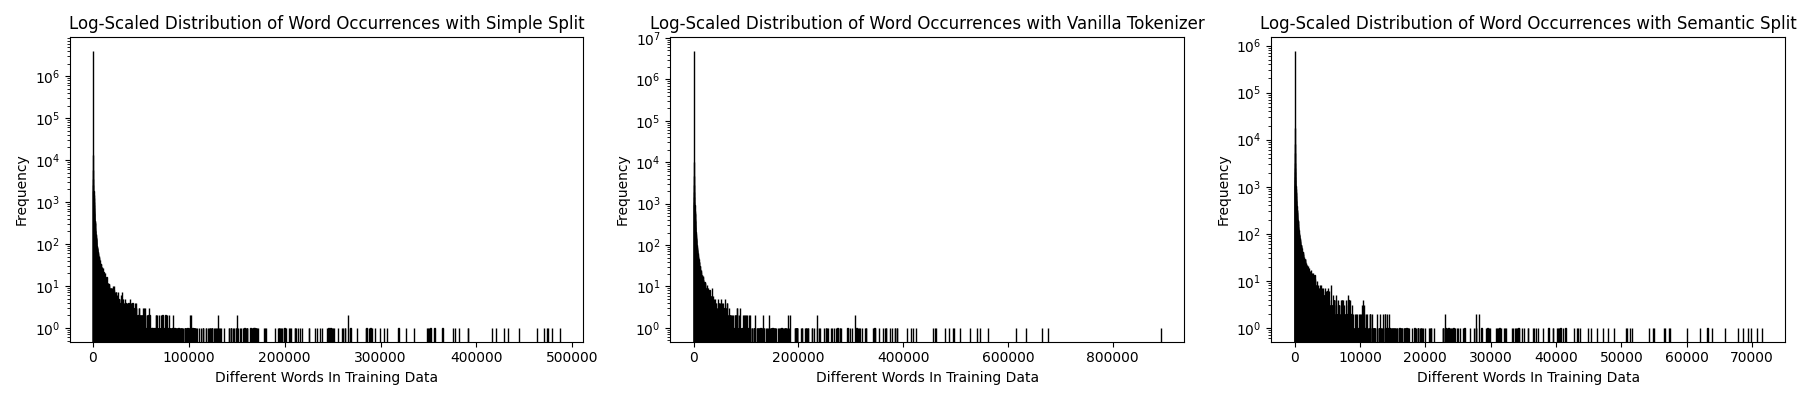
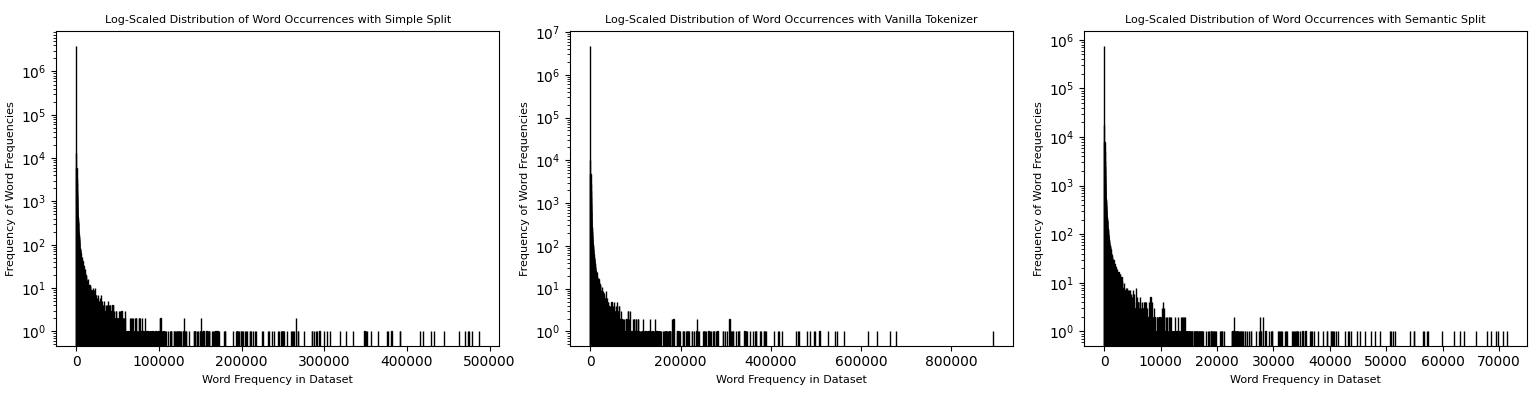
Added Plots

Changed region(s): [[0.0, 0.03, 0.9974, 0.96], [0.6545, 0.15, 0.9974, 0.96], [0.6545, 0.66, 0.6857, 0.69]]

diff --git a/data_breakdown/read_data.py b/data_breakdown/read_data.py
@@ -3,6 +3,8 @@ import pandas as pd
 import openpyxl
 import matplotlib.pyplot as plt
 import json
+import numpy as np
+from scipy.stats import linregress
 
 import general_functions as gf
 
@@ -30,9 +32,9 @@ def plot_histograms_from_multiple_hashmaps(hashmaps, titles):
     for idx, hashmap in enumerate(hashmaps):
         data = [value for value in hashmap.values()]
         axs[idx].hist(data, bins=5000, edgecolor='black', log=True)
-        axs[idx].set_title(titles[idx])
-        axs[idx].set_xlabel("Different Words In Training Data")
-        axs[idx].set_ylabel("Frequency")
+        axs[idx].set_title(titles[idx], fontsize = 8)
+        axs[idx].set_xlabel("Word Frequency in Dataset", fontsize = 8)
+        axs[idx].set_ylabel("Frequency of Word Frequencies", fontsize = 8)
 
     plt.tight_layout()
     plt.show()
@@ -69,6 +71,36 @@ def load_hashmaps_from_excels(folder_path):
     
     return hashmap_
 
+def plot_zipf(hashmap, titles):
+
+    num_plots = len(hashmap)
+    fig, axs = plt.subplots(1, num_plots, figsize=(6 * num_plots, 4))
+
+    # If only one subplot, make axs iterable
+    if num_plots == 1:
+        axs = [axs]
+
+    y = {1:[], 2:[], 3:[]}
+    x = {1:[], 2:[], 3:[]}
+    for i in hashmap:
+        # Create a list of keys sorted by their values in descending order
+        sorted_keys = sorted(hashmap[i], key=lambda k: hashmap[i][k], reverse=True)
+        for z in sorted_keys:
+            y[i].append(hashmap[i][z])
+        x[i] = list(range(1, len(y[i]) + 1))
+
+    for idx, hashmap in enumerate(hashmaps):
+
+        axs[idx].plot(x[idx + 1], y[idx + 1], label='Log-Scaled Line')
+        axs[idx].set_xscale('log')
+        axs[idx].set_yscale('log')
+        axs[idx].set_xlabel('log rank')
+        axs[idx].set_ylabel('log frequency')
+        axs[idx].set_title(titles[idx + 1])
+
+    plt.tight_layout()
+    plt.show()
+
 if __name__ == "__main__":
 
     title_ = {
@@ -101,6 +133,21 @@ if __name__ == "__main__":
         with open(hashmaps[method], "w", encoding="utf-8") as file:
             json.dump(hashmap, file)
 
+    #-------------------------Plot Zipf's Ranking Curve---------------------------------#
+
+    plot_zipf_ = False
+    if plot_zipf_:
+        hashmap_load = {}
+        titles = {}
+        for i in hashmaps:
+            with open(hashmaps[i], 'r', encoding='utf-8') as file:
+                hashmap_final = json.load(file)
+            title = "Zipf Curve of " + title_[i] + " method"
+            hashmap_load[i] = hashmap_final
+            titles[i] = title
+
+        plot_zipf(hashmap_load, titles)
+
     #------------------Plot the Distributions of Training Data--------------------------#
 
     plot = True
@@ -115,3 +162,4 @@ if __name__ == "__main__":
             titles.append(title)
 
         plot_histograms_from_multiple_hashmaps(hashmap_list,titles)
+

diff --git a/README.md b/README.md
@@ -4,20 +4,33 @@
 
 # Engineering Science Machine Intelligence Thesis
 
-This research project is still on going. The repository will continually be updated as the work progresses.
-
 </div>
+
+This research project is still ongoing. The repository will continually be updated as the work progresses. The primary focus of this project is to investigate the privacy vulnerabilities of large language models (LLMs), particularly their potential to memorize and expose private training data. By exploring methods such as black-box and white-box attacks, the research aims to identify conditions under which private data can be retrieved and to propose safeguards to prevent such breaches. This repository includes the code, datasets, and experimental results used in analyzing LLM memorization and privacy risks, serving as a living document of the research journey.
 
 ## Training Data Distribution
 
+The graphs below show the training data distribution for all three methods that was used to split the data set into its k-eidetic memories. The x axis of each subplot shows the number of times a word appear in a training data point, which means that the left leaning datum on the x axis are words that does not appear frequently within a dataset. The Frequency of each subplot (the y axis) shows how common are words that appear in x amount of times in the training data are. From this graph, it becomes obvious there is a large amount of words that appear only once or twice within the dataset. While it is guaranteed that there are some amount of noise within the split from words being split incorrectly, the amount of words that appear in only a small subset of the training data point is concerning as it could means the methods that I am splitting the words are incorrect. To validate the methods that I am using, I have found the Zipf curve for each method. The results of which are displayed in the next section. 
+
 <div align="center">
-  <img src="https://github.com/user-attachments/assets/893d63d3-ee56-4c68-bab1-68650f33fc85" alt="All Split Method Distribution" width="1000">
+  <img src="https://github.com/user-attachments/assets/eb07a2df-c865-4838-83aa-68638de7f356" alt="All Split Method Distribution" width="950">
   <p><em>Figure 1: Distribution of training data across the three data splits methods: Hard Coded Simple Split, NLTK Vanilla Encoder, and Deep Semantics Splitting.</em></p>
+</div>
+
+## Zipf Curve
+
+The Zipf curve, named after linguist George Zipf, is a graphical representation of the frequency distribution of words in a given language or dataset. It reflects Zipf's Law, which states that the frequency of a word is inversely proportional to its rank in the frequency table, meaning the most common word occurs much more frequently than the second most common word, and so on. When plotted on a log-log scale, the Zipf curve typically appears as a straight line, indicating a power-law relationship. This phenomenon highlights the skewed nature of linguistic usage, where a small subset of words dominates communication while the majority are rarely used. The 3 curves below are not a straight line, yet they closely follow a power-law distribution, indicating that the frequency of words still generally decreases as their rank increases, though with slight deviations which can most likely be attributed to the noise from the method of splitting. One thing to note is that the closer it is to being a straight line shows the more accurate it is, and the simple split is the farthest followed by the vanilla tokenizer. The third method is showing the distribution of only the first 15 percent of the training data as it is still being generated.
+
+<div align="center">
+<img src="https://github.com/user-attachments/assets/40e33d22-ac6d-4d7e-ad7c-75b30fe37a6c" alt="All Split Method Distribution" width="950">
+  <p><em>Figure 2: Zipf curve across the three data splits methods: Hard Coded Simple Split, NLTK Vanilla Encoder, and Deep Semantics Splitting.</em></p>
 </div>
 
 ## Memorization Test
 
+The memorization test shows that the percentage of generated words from GPT2 that appear in 5 or 10 of the training data points is less than 1 percent. This shows that memorization does indeed occur but only at a minimal amount. These tests were done on only a subset of the data as not all data have been generated yet. More will follow soon as the research progresses.
+
 <div align="center">
-  <img src="https://github.com/user-attachments/assets/189c7c77-2020-468c-a5eb-8e0c6cb4da4a" alt="Method 1 and 2 Result" width="800">
-  <p><em>Figure 2: Results of the memorization test using Method 1 and Method 2.</em></p>
+  <img src="https://github.com/user-attachments/assets/189c7c77-2020-468c-a5eb-8e0c6cb4da4a" alt="Method 1 and 2 Result" width="750">
+  <p><em>Figure 3: Results of the memorization test using Method 1 and Method 2.</em></p>
 </div>
